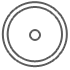
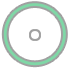
new crosshairs

Changed region(s): [[0.0286, 0.0, 0.9714, 0.9714], [0.4, 0.4, 0.6, 0.6]]

diff --git a/designAR/designAR/Wand.cs b/designAR/designAR/Wand.cs
@@ -45,6 +45,8 @@ namespace designAR
         Vector2 cursorPosition;
 
         private Texture2D selectSprite;
+        private Texture2D placeSprite;
+        private Texture2D manipulateSprite;
         private Texture2D currentCursor;
 
         public Wand(Scene theScene, GraphicsDevice gDevice, Catalog cat, Room rm)
@@ -298,17 +300,44 @@ namespace designAR
             spriteBatch.End();
         }
 
-        internal void setTexture(Texture2D sprite)
+        public void setSelectCrosshair(Texture2D sprite)
         {
             this.selectSprite = sprite;
-            currentCursor = selectSprite;
+            setTexture(selectSprite);
+        }
+
+        public void setPlaceCrosshair(Texture2D sprite)
+        {
+            this.placeSprite = sprite;
+        }
+
+        public void setManipulateCrosshair(Texture2D sprite)
+        {
+            this.manipulateSprite = sprite;
+        }
+
+        internal void setTexture(Texture2D sprite)
+        {
+            currentCursor = sprite;
             cursorPosition = new Vector2(screenCenter.X - currentCursor.Width / 2f, screenCenter.Y - currentCursor.Height / 2f);
         }
 
         private void setState(STATES s)
         {
             this.state = s;
-            //TODO: Set new cursor
+
+            switch (state)
+            {
+                case STATES.SELECTING:
+                    setTexture(selectSprite);
+                    break;
+                case STATES.PLACING:
+                    setTexture(placeSprite);
+                    break;
+                case STATES.MANIPULATING:
+                    setTexture(manipulateSprite);
+                    break;
+            }
         }
     }
 }

diff --git a/designAR/designAR/designAR.cs b/designAR/designAR/designAR.cs
@@ -79,7 +79,9 @@ namespace designAR
             room = new Room(scene, 60, 60);
             room.Initialize();
             wand = new Wand(scene, graphics.GraphicsDevice, catalog, room);
-            wand.setTexture(Content.Load<Texture2D>("crosshairs/crosshairnormal"));
+            wand.setSelectCrosshair(Content.Load<Texture2D>("crosshairs/crosshairnormal"));
+            wand.setPlaceCrosshair(Content.Load<Texture2D>("crosshairs/crosshairplace"));
+            wand.setManipulateCrosshair(Content.Load<Texture2D>("crosshairs/crosshairmanip"));
             //room = new Room();
         }
 

diff --git a/designAR/designAR/Room.cs b/designAR/designAR/Room.cs
@@ -258,7 +258,7 @@ namespace designAR
             //groundMarkerNode.Smoother = new DESSmoother(0.2f, 0.1f, 1, 1);
 #else
             //   groundMarkerNode = new MarkerNode(scene.MarkerTracker, "ALVARGroundArray.xml");
-            groundMarkerNode = new MarkerNode(this.scene.MarkerTracker, "ALVARConfig.txt");
+            groundMarkerNode = new MarkerNode(this.scene.MarkerTracker, "ALVARConfig_14000.txt");
 
 #endif
 
